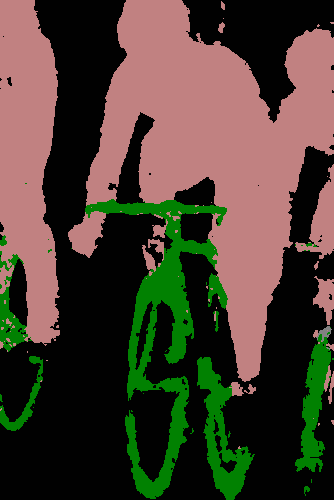
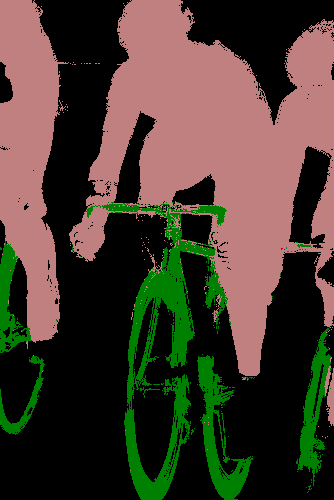
super-pixel based working, slightly slower

diff --git a/batch.cpp b/batch.cpp
@@ -1,0 +1,105 @@
+#include <stdio.h>
+#include <iostream>
+#include<fstream>
+
+#include "opencv2/highgui/highgui.hpp"
+#include "opencv2/core/core.hpp"
+#include "opencv2/opencv.hpp"
+
+#include "gMF_Lib/gMF.h"
+#include "NVTimer.h"
+
+#include "image_helper.h"
+
+using namespace std;
+using namespace cv;
+
+int main(int argc, char** argv){
+
+    if(argc<4){
+        cout<<"Usage: ./gMF <input image> <input unary> <output image>"<<endl;
+        return -1;
+    }
+    
+    //---------------   there are the parameters that you can play with --------------------------------------------------
+    const int M = 8;                                                                       // number of lables
+    const float sigma_BF_xy = 100;                                             // std of spatial kernel in bilateral filter
+    const float sigma_BF_rgb = 5;                                             // std of range kernel in bilateral filter
+    const float sigma_GF_xy = 3;                                               // std of Gaussian filter
+	const float weight_gaussian = 3.0;                                    // weight of gaussian filter
+    const float weight_bilateralfilter = 10.0;                        // weight of bilateral filter
+    const int no_iterations = 10;                                                  // number of interations
+    //---------------------------------------------------------------------------------------------------------------------------------------------
+    
+    
+//    cout << "--------- running gMF with following configuration: ---------"<<endl;
+//    cout <<"M=10"<<endl;
+//    cout <<"sigma_BF_xy ="<<sigma_BF_xy<<endl;
+//    cout <<"sigma_BF_rgb = "<<sigma_BF_rgb<<endl;
+//    cout <<"sigma_GF_xy = "<<sigma_GF_xy<<endl;
+//    cout <<"weight_gaussian = "<<weight_gaussian<<endl;
+//    cout <<"weight_bilateralfilter = "<<weight_bilateralfilter<<endl;
+//    cout <<"no_iterations = "<<no_iterations<<endl;
+//    cout << "-----------------------------------------------------------------------------------"<<endl;
+    
+    int W, H;
+    std::string image_path = argv[1];
+    std::string anno_path = argv[2];
+    std::string output_path = argv[3];
+
+	cv::Mat in_img = cv::imread(image_path,1);
+    cv::Mat in_anno = cv::imread(anno_path,1);
+    W = in_img.cols;
+	H = in_img.rows;
+    
+    int *labeling_data = new int[W*H];
+    float *unary_data = new float[W*H*M];
+    float *Q_dist_data = new float[W*H*M];
+    float *pott_model_data = new float[M*M];
+    
+    read_labling_from_image(labeling_data, in_anno,W,H,M);          
+    labeling_to_unary(unary_data,labeling_data,W,H,M); 
+    create_pott_compatibility_func(pott_model_data,M);
+    StopWatchInterface *my_timer;
+
+    gMF::inference_engine *my_CRF = new gMF::inference_engine(W,H,M);
+	gMF::BF_info *my_BF_info = new gMF::BF_info(sigma_BF_xy, sigma_BF_rgb);
+    gMF::GF_info *my_GF_info = new gMF::GF_info(sigma_GF_xy);
+
+    my_CRF->load_reference_image(in_img.data, W, H);
+    my_CRF->load_compatibility_function(pott_model_data);
+    my_CRF->load_unary_potential(unary_data);
+    my_CRF->exp_and_normalize();
+   
+    sdkCreateTimer(&my_timer);
+    sdkResetTimer(&my_timer); sdkStartTimer(&my_timer);
+    for (int iter = 0; iter < no_iterations; iter++) {
+        my_CRF->filter_bilateral(weight_bilateralfilter, M, W, H, my_BF_info, false);
+        my_CRF->filter_gaussian(weight_gaussian,M,W,H,my_GF_info,true);
+        my_CRF->apply_compatibility_transform();
+        my_CRF->substract_update_from_unary_potential();
+        my_CRF->exp_and_normalize();
+    } 
+    cudaThreadSynchronize();
+    sdkStopTimer(&my_timer); printf("CRF in:[%.2f]ms\n", sdkGetTimerValue(&my_timer));
+    my_CRF->get_Q_distribution(Q_dist_data);     
+    Q_dist_to_labeling(labeling_data,Q_dist_data,W,H,M);
+    
+    cv::Mat out_img; out_img.create(H,W,CV_8UC3); 
+    draw_image_from_labeling(out_img,labeling_data,W,H);
+    
+	std::vector<int> compression_params;
+	compression_params.push_back(cv::IMWRITE_PNG_COMPRESSION);
+	compression_params.push_back(9);
+    cv::imwrite(output_path,out_img);
+
+    delete my_CRF;
+    delete labeling_data;
+    delete unary_data;
+    delete Q_dist_data;
+    delete pott_model_data;
+    delete my_timer;
+    
+	return 0;
+ 
+    }

diff --git a/demo.cpp b/demo.cpp
@@ -23,8 +23,8 @@ int main(int argc, char** argv){
     
     //---------------   there are the parameters that you can play with --------------------------------------------------
     const int M = 21;                                                                       // number of lables
-    const float sigma_BF_xy = 60;                                             // std of spatial kernel in bilateral filter
-    const float sigma_BF_rgb = 20;                                             // std of range kernel in bilateral filter
+    const float sigma_BF_xy = 100;                                             // std of spatial kernel in bilateral filter
+    const float sigma_BF_rgb = 15;                                             // std of range kernel in bilateral filter
     const float sigma_GF_xy = 3;                                               // std of Gaussian filter
 	const float weight_gaussian = 3.0;                                    // weight of gaussian filter
     const float weight_bilateralfilter = 10.0;                        // weight of bilateral filter

diff --git a/image_helper.h b/image_helper.h
@@ -39,7 +39,7 @@ void read_labling_from_image(int* out_labling, const Mat& in_img, int w, int h, 
 
 void labeling_to_unary(float *out_unary, const int* in_labling, int w, int h, int M)
 {
-    const float GT_PROB = 0.8;
+    const float GT_PROB = 0.5;
     const float u_energy = log( 1.0 / M );
 	const float n_energy = log( (1.0 - GT_PROB) / (M-1) );
 	const float p_energy = log( GT_PROB );
